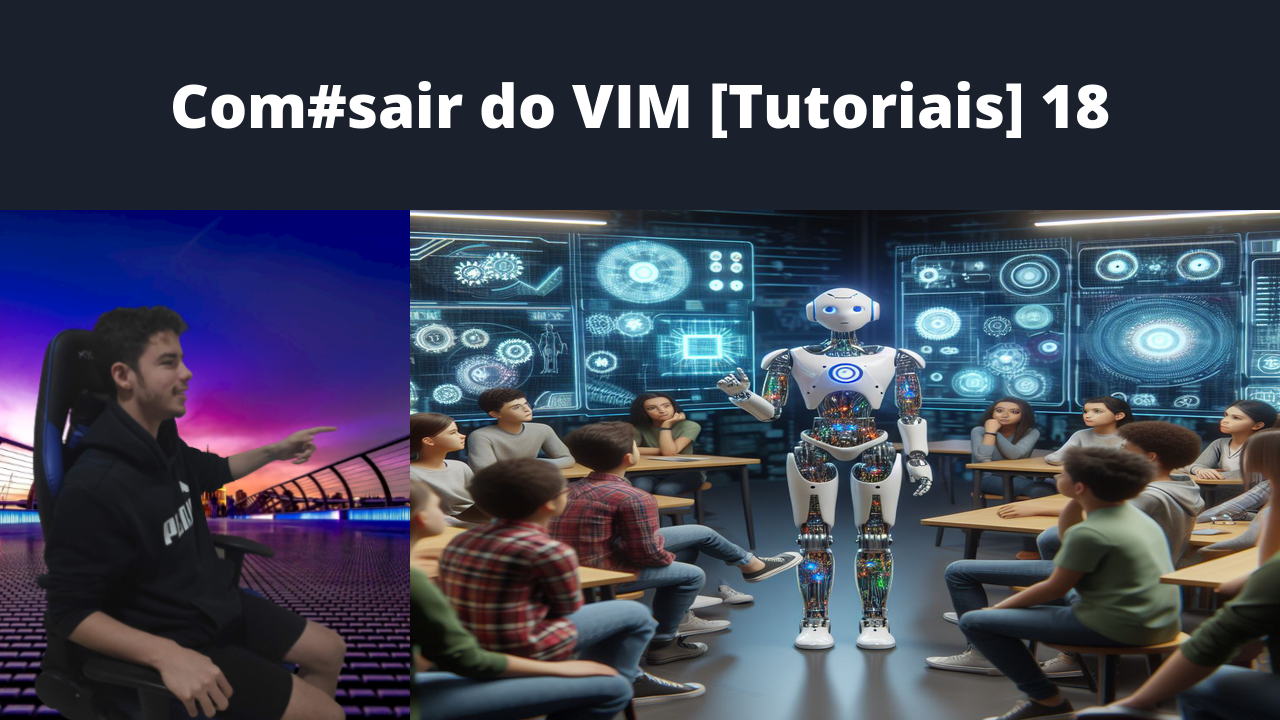
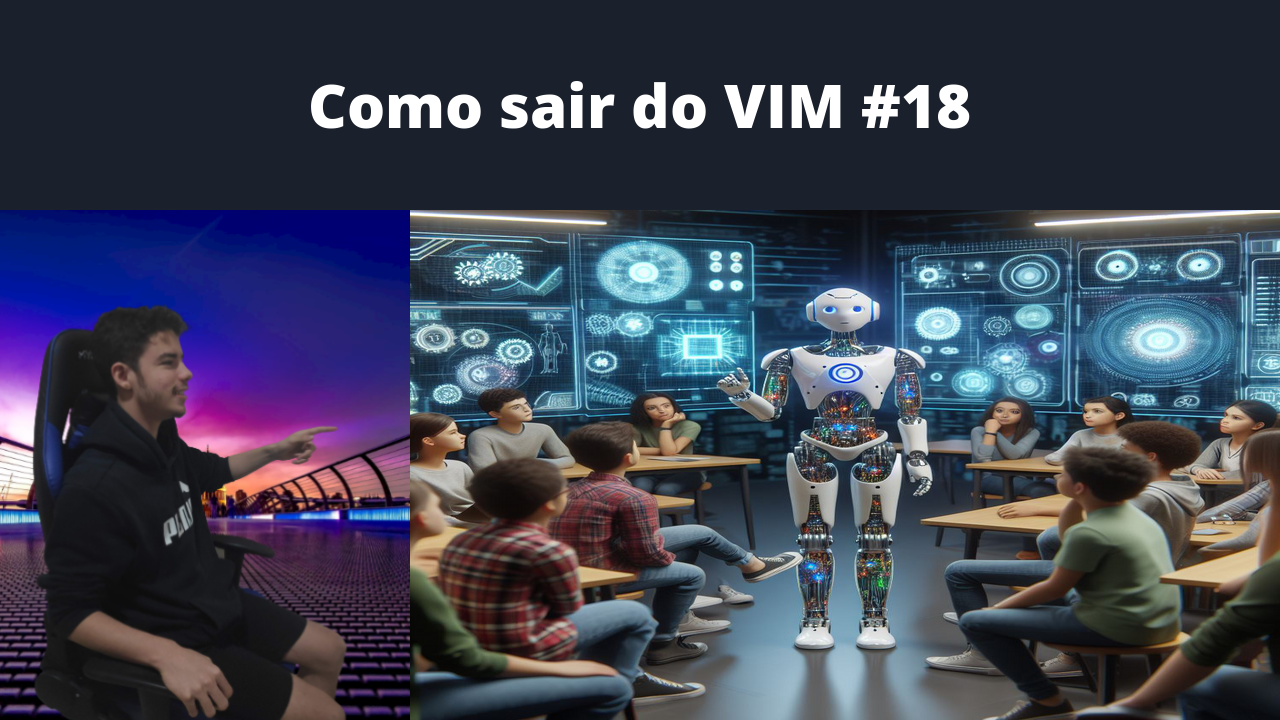
chore: add title chore: run thubGen series a& fix blockchain builder image

Changed region(s): [[0.125, 0.0917, 0.875, 0.2139]]

diff --git a/out/titles/thumbGen.md b/out/titles/thumbGen.md
@@ -266,3 +266,9 @@
 [video](https://youtu.be/O-X22K1olJA)
 ## Títulos personalizados no geral #134
 [video](https://youtu.be/WC1AjdV-VP8)
+## Títulos personalizados refinamento #135
+[video](https://youtu.be/KAYHu3N107A)
+## Títulos personalizados refinamento #136
+[video](https://youtu.be/Eitb3K_VzcI)
+## Títulos personalizados refinamento #137
+[video](https://youtu.be/j29l5x9Vlec)
